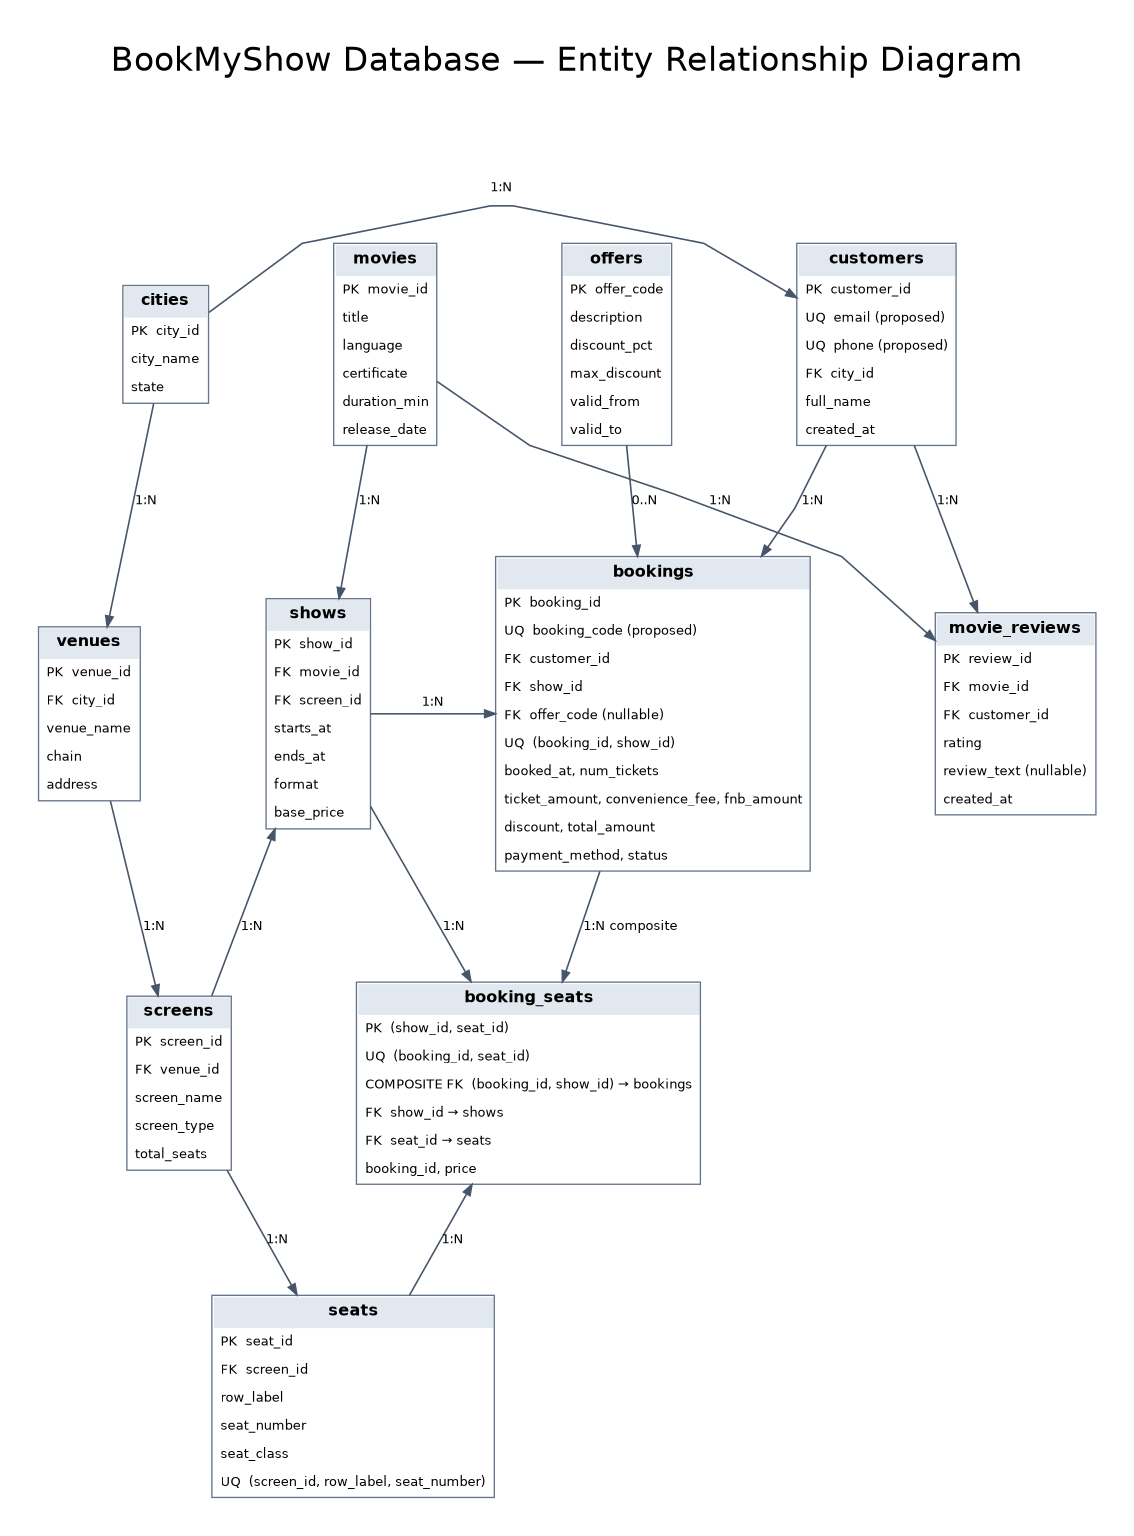
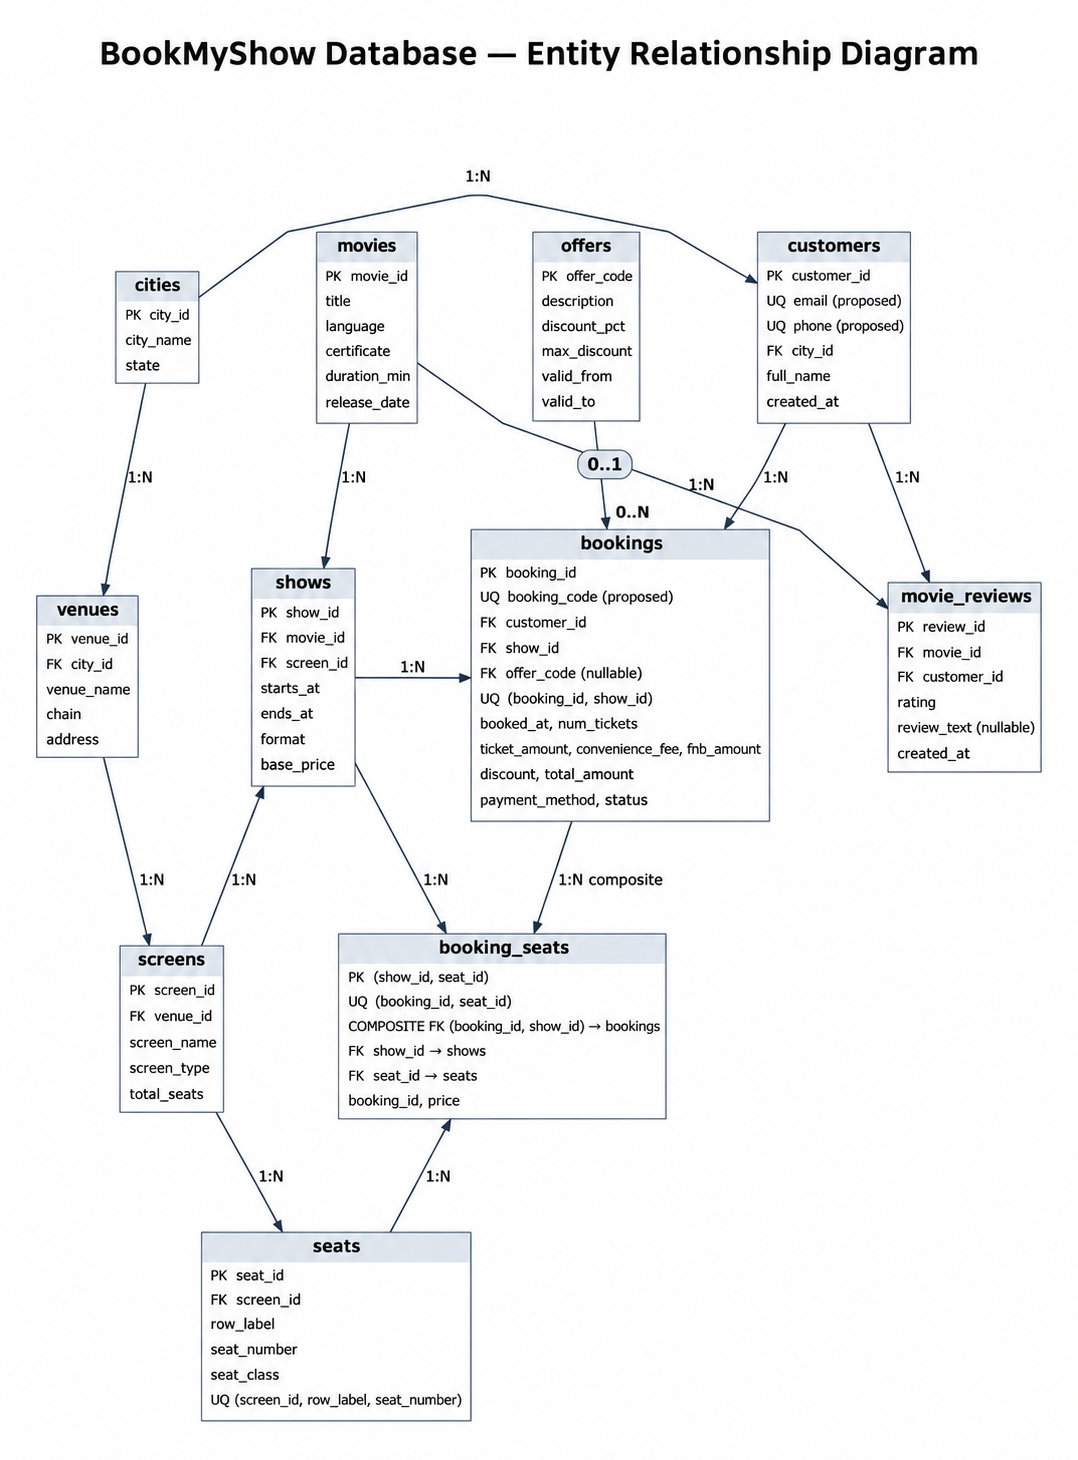
Clarify optional offer cardinality and timestamp count

diff --git a/docs/02_schema_design.md b/docs/02_schema_design.md
@@ -129,7 +129,7 @@ A composite foreign key `(booking_id, show_id)` references the corresponding UNI
 | customers | bookings | 1:N |
 | shows | bookings | 1:N |
 | bookings | booking_seats | 1:N |
-| offers | bookings | 1:N; booking-side reference is optional |
+| offers | bookings | Offer to bookings: 0..N; booking to offer: 0..1 (nullable) |
 | movies | movie_reviews | 1:N |
 | customers | movie_reviews | 1:N |
 
@@ -359,7 +359,7 @@ Additional results:
 - Overlapping show pairs: 0.
 - Proposed review uniqueness warnings: 0.
 
-The 382,672 timestamp values across shows, bookings, customers, and movie reviews were timezone-aware and parsed successfully. The observed offset in the supplied data is `+05:30`. This is informational only; the validator permits multiple valid UTC offsets.
+The 542,672 timestamp values across shows, bookings, customers, and movie reviews were timezone-aware and parsed successfully (160,034 show start timestamps + 160,034 show end timestamps + 150,094 booking timestamps + 40,000 customer creation timestamps + 32,510 review creation timestamps). The observed offset in the supplied data is `+05:30`. This is informational only; the validator permits multiple valid UTC offsets.
 
 **Overall result: PASSED — 778,048 rows, 0 errors, 0 warnings.**
 
